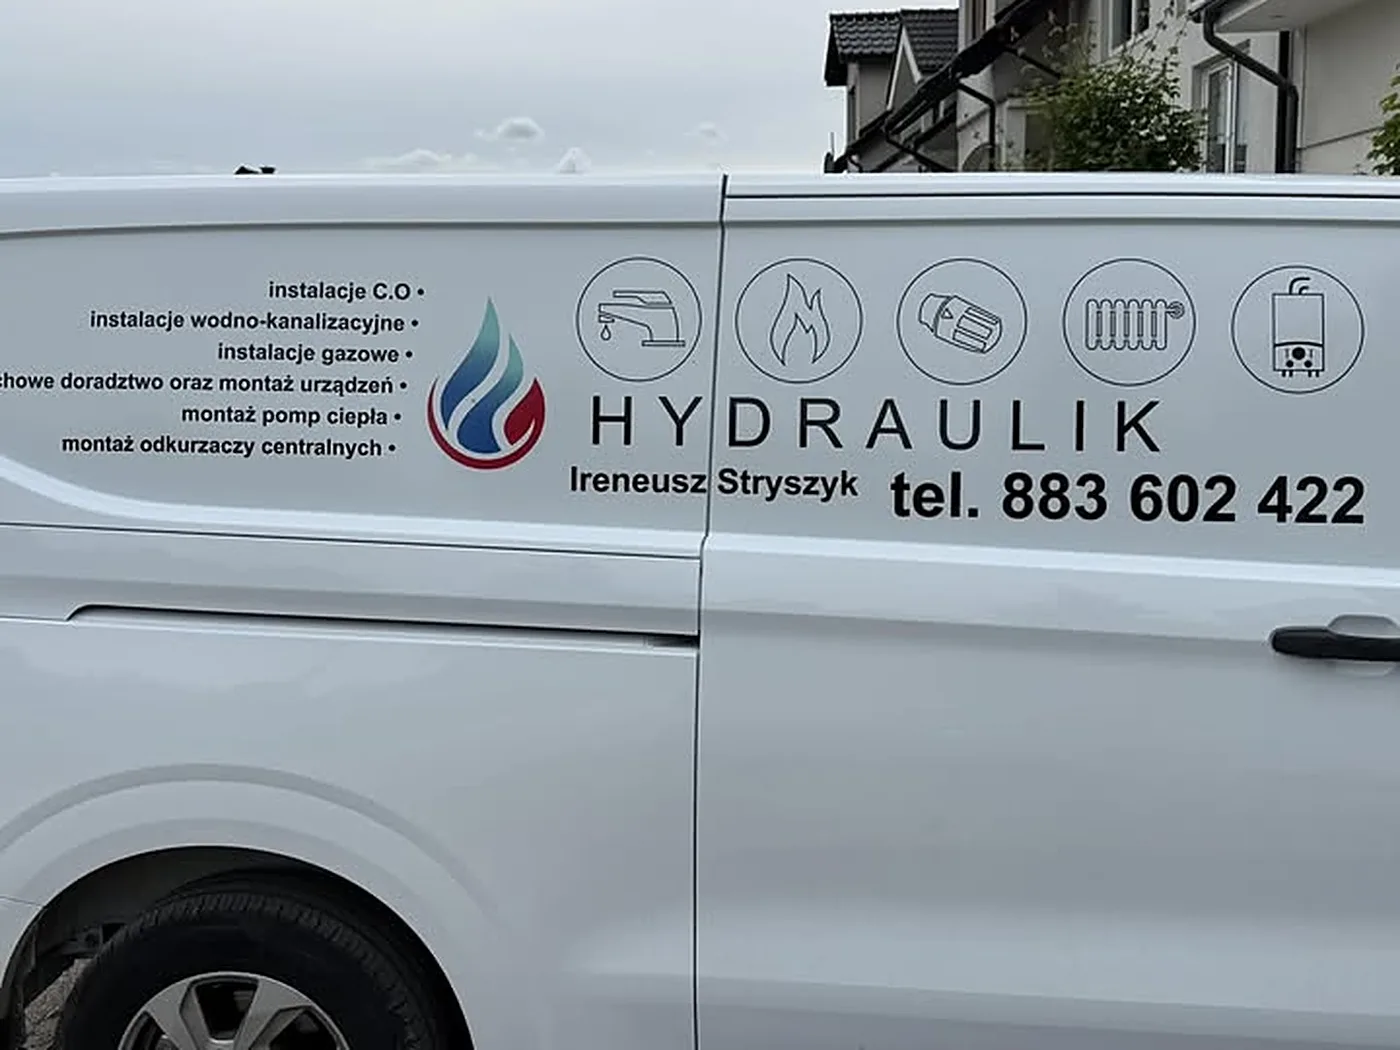
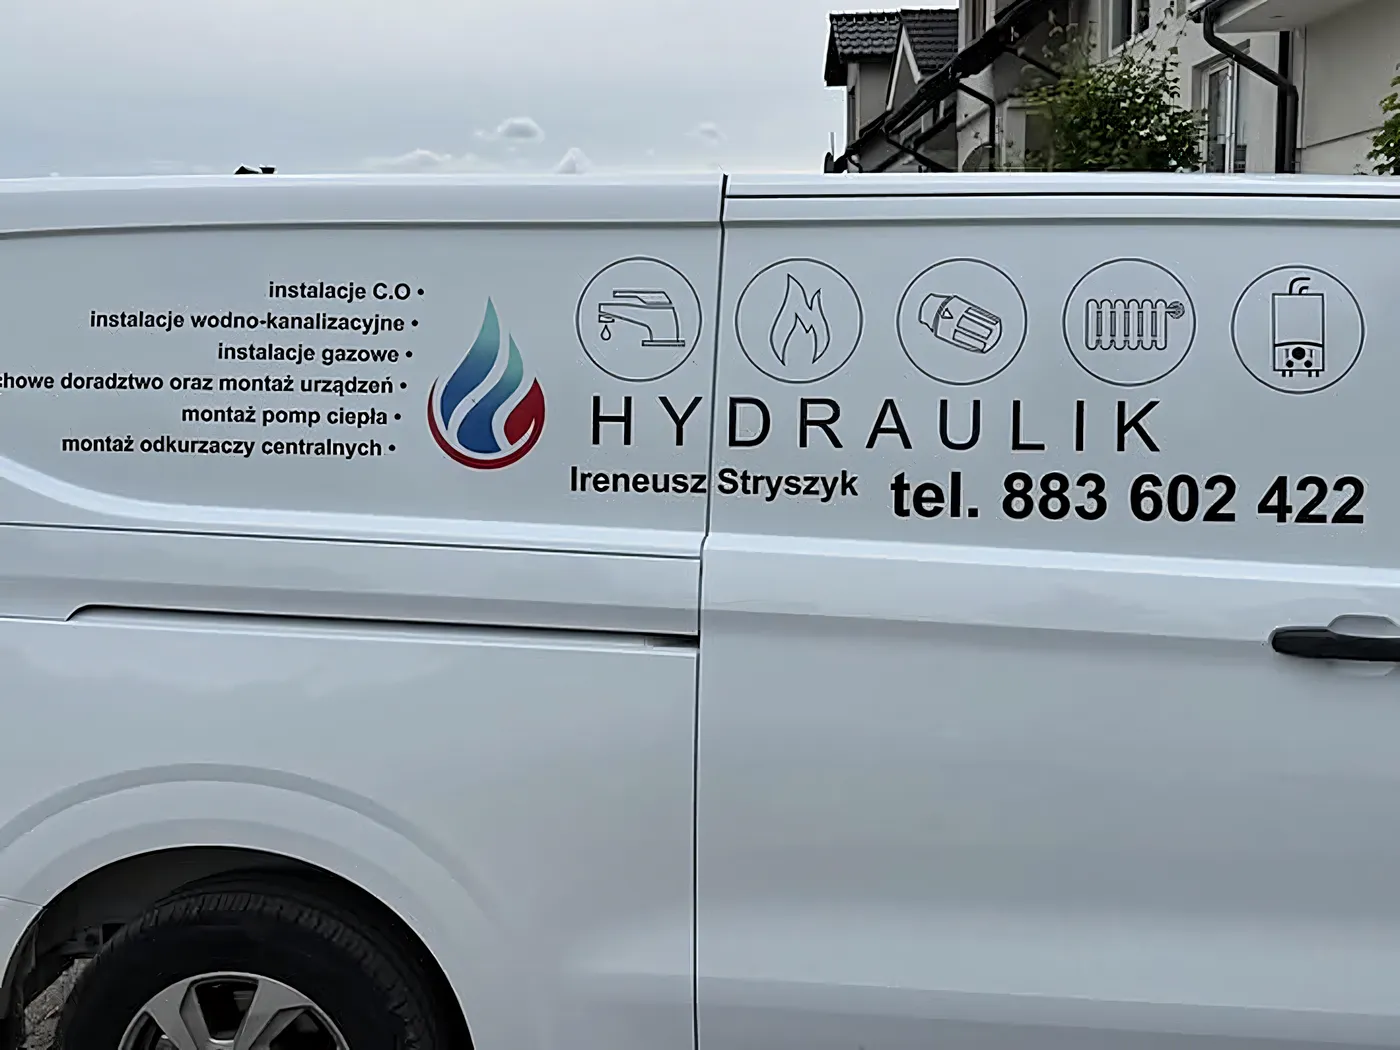
Ostrosc zdjec na ekranach 2x + upscale AI tam, gdzie sie sprawdza
- pas na Partnerze: ostry kadr katalogowy Vaillanta zamiast miekkiego zblizenia
  z kotlowni (sekcja urzadzen ma teraz 4 karty, bo ten kadr z niej wypadl)
- pasy naglowkowe dostaly warianty pod ekrany o gestosci 2x (2048-2400 px zamiast
  1600) - to byla prawdziwa przyczyna miekkosci, nie kadrowanie
- bus na O nas: upscale AI z 1440 do 2880 px. Tu AI wygrywa z wyostrzaniem,
  bo na aucie sa NAPISY - litery wychodza czyste, maska zostawia biale obwodki
- zasada wdrozona i spisana: upscale AI TAK dla napisow/logo/grafiki i zdjec
  produktowych, NIE dla faktury (cegla, tynk, beton) - tam wygladza

diff --git a/partner.html b/partner.html
@@ -23,7 +23,7 @@
   <link rel="manifest" href="site.webmanifest">
   <link rel="preload" href="assets/fonts/bricolage-latin.woff2" as="font" type="font/woff2" crossorigin>
   <link rel="preload" href="assets/fonts/inter-latin.woff2" as="font" type="font/woff2" crossorigin>
-  <link rel="stylesheet" href="assets/app.css?v=9">
+  <link rel="stylesheet" href="assets/app.css?v=10">
   <script type="application/ld+json">
   {
     "@context": "https://schema.org",
@@ -95,7 +95,7 @@
 </section>
 <div class="wrap-wide rv" style="margin-bottom:clamp(20px,4vw,40px)">
   <figure style="margin:0;overflow:hidden;border-radius:4px;aspect-ratio:21/8;background:#dedad3">
-    <img style="width:100%;height:100%;object-fit:cover" src="img/kotlownia-06-900.webp" srcset="img/kotlownia-06-900.webp 900w, img/kotlownia-06-1600.webp 1600w" sizes="100vw" width="675" height="900" alt="Pompa ciepła Vaillant ze stacją Afriso" fetchpriority="high" decoding="async">
+    <img style="width:100%;height:100%;object-fit:cover" src="img/vaillant-03-1600.webp" srcset="img/vaillant-03-1600.webp 1600w, img/vaillant-03-2400.webp 2400w" sizes="100vw" width="2400" height="912" alt="Kocioł kondensacyjny Vaillant" fetchpriority="high" decoding="async">
   </figure>
 </div>
 
@@ -135,11 +135,10 @@
       <p class="lead">Kotły kondensacyjne, pompy ciepła i zasobniki ciepłej wody Vaillant.</p>
     </div>
     <div class="devices rv">
-      <figure data-zoom="img/vaillant-01-1600.webp" data-alt="Urządzenie Vaillant, kotły gazowe Vaillant" data-cap="kotły gazowe Vaillant" tabindex="0"><img src="img/vaillant-01-900.webp" srcset="img/vaillant-01-900.webp 900w, img/vaillant-01-1600.webp 1600w" width="900" height="700" alt="Urządzenie Vaillant, kotły gazowe Vaillant" loading="lazy" decoding="async"></figure>
+      <figure data-zoom="img/vaillant-01-1600.webp" data-alt="Urządzenie Vaillant, kotły stojące z zasobnikiem Vaillant" data-cap="kotły stojące z zasobnikiem Vaillant" tabindex="0"><img src="img/vaillant-01-900.webp" srcset="img/vaillant-01-900.webp 900w, img/vaillant-01-1600.webp 1600w" width="900" height="700" alt="Urządzenie Vaillant, kotły stojące z zasobnikiem Vaillant" loading="lazy" decoding="async"></figure>
       <figure data-zoom="img/vaillant-02-1600.webp" data-alt="Urządzenie Vaillant, pompa ciepła Vaillant" data-cap="pompa ciepła Vaillant" tabindex="0"><img src="img/vaillant-02-900.webp" srcset="img/vaillant-02-900.webp 900w, img/vaillant-02-1600.webp 1600w" width="900" height="700" alt="Urządzenie Vaillant, pompa ciepła Vaillant" loading="lazy" decoding="async"></figure>
-      <figure data-zoom="img/vaillant-03-1600.webp" data-alt="Urządzenie Vaillant, kocioł kondensacyjny Vaillant" data-cap="kocioł kondensacyjny Vaillant" tabindex="0"><img src="img/vaillant-03-900.webp" srcset="img/vaillant-03-900.webp 900w, img/vaillant-03-1600.webp 1600w" width="900" height="700" alt="Urządzenie Vaillant, kocioł kondensacyjny Vaillant" loading="lazy" decoding="async"></figure>
       <figure data-zoom="img/vaillant-04-1600.webp" data-alt="Urządzenie Vaillant, kocioł wiszący Vaillant" data-cap="kocioł wiszący Vaillant" tabindex="0"><img src="img/vaillant-04-900.webp" srcset="img/vaillant-04-900.webp 900w, img/vaillant-04-1600.webp 1600w" width="900" height="700" alt="Urządzenie Vaillant, kocioł wiszący Vaillant" loading="lazy" decoding="async"></figure>
-      <figure data-zoom="img/vaillant-05-1600.webp" data-alt="Urządzenie Vaillant, zasobnik i kocioł Vaillant" data-cap="zasobnik i kocioł Vaillant" tabindex="0"><img src="img/vaillant-05-900.webp" srcset="img/vaillant-05-900.webp 900w, img/vaillant-05-1600.webp 1600w" width="900" height="700" alt="Urządzenie Vaillant, zasobnik i kocioł Vaillant" loading="lazy" decoding="async"></figure>
+      <figure data-zoom="img/vaillant-05-1600.webp" data-alt="Urządzenie Vaillant, kocioł kondensacyjny Vaillant" data-cap="kocioł kondensacyjny Vaillant" tabindex="0"><img src="img/vaillant-05-900.webp" srcset="img/vaillant-05-900.webp 900w, img/vaillant-05-1600.webp 1600w" width="900" height="700" alt="Urządzenie Vaillant, kocioł kondensacyjny Vaillant" loading="lazy" decoding="async"></figure>
     </div>
   </div>
 </section>

diff --git a/kontakt.html b/kontakt.html
@@ -23,7 +23,7 @@
   <link rel="manifest" href="site.webmanifest">
   <link rel="preload" href="assets/fonts/bricolage-latin.woff2" as="font" type="font/woff2" crossorigin>
   <link rel="preload" href="assets/fonts/inter-latin.woff2" as="font" type="font/woff2" crossorigin>
-  <link rel="stylesheet" href="assets/app.css?v=9">
+  <link rel="stylesheet" href="assets/app.css?v=10">
   <script type="application/ld+json">
   {
     "@context": "https://schema.org",
@@ -95,7 +95,7 @@
 </section>
 <div class="wrap-wide rv" style="margin-bottom:clamp(20px,4vw,40px)">
   <figure style="margin:0;overflow:hidden;border-radius:4px;aspect-ratio:21/8;background:#dedad3">
-    <img style="width:100%;height:100%;object-fit:cover" src="img/wod-kan-07-900.webp" srcset="img/wod-kan-07-900.webp 900w, img/wod-kan-07-1600.webp 1600w" sizes="100vw" width="900" height="900" alt="Węzeł wodomierzowy z zaworami odcinającymi" fetchpriority="high" decoding="async">
+    <img style="width:100%;height:100%;object-fit:cover" src="img/wod-kan-07-1600.webp" srcset="img/wod-kan-07-1600.webp 1600w, img/wod-kan-07-2048.webp 2048w" sizes="100vw" width="2048" height="778" alt="Węzeł wodomierzowy z zaworami odcinającymi" fetchpriority="high" decoding="async">
   </figure>
 </div>
 

diff --git a/oferta.html b/oferta.html
@@ -23,7 +23,7 @@
   <link rel="manifest" href="site.webmanifest">
   <link rel="preload" href="assets/fonts/bricolage-latin.woff2" as="font" type="font/woff2" crossorigin>
   <link rel="preload" href="assets/fonts/inter-latin.woff2" as="font" type="font/woff2" crossorigin>
-  <link rel="stylesheet" href="assets/app.css?v=9">
+  <link rel="stylesheet" href="assets/app.css?v=10">
   <script type="application/ld+json">
   {
     "@context": "https://schema.org",
@@ -95,7 +95,7 @@
 </section>
 <div class="wrap-wide rv" style="margin-bottom:clamp(20px,4vw,40px)">
   <figure style="margin:0;overflow:hidden;border-radius:4px;aspect-ratio:21/8;background:#dedad3">
-    <img style="width:100%;height:100%;object-fit:cover" src="img/wod-kan-05-900.webp" srcset="img/wod-kan-05-900.webp 900w, img/wod-kan-05-1600.webp 1600w" sizes="100vw" width="900" height="900" alt="Rury poprowadzone w bruzdach ściany" fetchpriority="high" decoding="async">
+    <img style="width:100%;height:100%;object-fit:cover" src="img/wod-kan-05-1600.webp" srcset="img/wod-kan-05-1600.webp 1600w, img/wod-kan-05-2048.webp 2048w" sizes="100vw" width="2048" height="778" alt="Rury poprowadzone w bruzdach ściany" fetchpriority="high" decoding="async">
   </figure>
 </div>
 

diff --git a/o-nas.html b/o-nas.html
@@ -23,7 +23,7 @@
   <link rel="manifest" href="site.webmanifest">
   <link rel="preload" href="assets/fonts/bricolage-latin.woff2" as="font" type="font/woff2" crossorigin>
   <link rel="preload" href="assets/fonts/inter-latin.woff2" as="font" type="font/woff2" crossorigin>
-  <link rel="stylesheet" href="assets/app.css?v=9">
+  <link rel="stylesheet" href="assets/app.css?v=10">
   <script type="application/ld+json">
   {
     "@context": "https://schema.org",
@@ -95,7 +95,7 @@
 </section>
 <div class="wrap-wide rv" style="margin-bottom:clamp(20px,4vw,40px)">
   <figure style="margin:0;overflow:hidden;border-radius:4px;aspect-ratio:21/8;background:#dedad3">
-    <img style="width:100%;height:100%;object-fit:cover" src="img/bus-900.webp" srcset="img/bus-900.webp 900w, img/bus-1400.webp 1400w" sizes="100vw" width="900" height="675" alt="Samochód firmowy z logo i numerem telefonu" fetchpriority="high" decoding="async">
+    <img style="width:100%;height:100%;object-fit:cover" src="img/bus-1400.webp" srcset="img/bus-1400.webp 1400w, img/bus-2400.webp 2400w" sizes="100vw" width="2400" height="912" alt="Samochód firmowy z logo i numerem telefonu" fetchpriority="high" decoding="async">
   </figure>
 </div>
 

diff --git a/assets/app.css b/assets/app.css
@@ -258,11 +258,11 @@ h3{font-size:clamp(19px,2vw,23px);letter-spacing:-.02em}
 
 /* ——— urządzenia producenta: małe karty katalogowe, żeby zielone tła
    z materiałów Vaillanta nie zalewały sekcji wielką płaszczyzną koloru ——— */
-.devices{display:grid;grid-template-columns:repeat(5,1fr);gap:12px;margin-top:40px}
+.devices{display:grid;grid-template-columns:repeat(4,1fr);gap:14px;margin-top:40px}
 .devices figure{margin:0;overflow:hidden;border-radius:var(--r);border:1px solid var(--line);background:#fff;aspect-ratio:4/5}
 .devices img{width:100%;height:100%;object-fit:cover;transition:transform .55s cubic-bezier(.2,.7,.3,1),filter .45s}
 .devices figure:hover img{transform:scale(1.02);filter:brightness(1.05)}
-@media (max-width:900px){.devices{grid-template-columns:repeat(3,1fr)}}
+@media (max-width:900px){.devices{grid-template-columns:repeat(2,1fr)}}
 @media (max-width:560px){.devices{grid-template-columns:repeat(2,1fr)}}
 
 /* ——— galeria ——— */

diff --git a/index.html b/index.html
@@ -23,7 +23,7 @@
   <link rel="manifest" href="site.webmanifest">
   <link rel="preload" href="assets/fonts/bricolage-latin.woff2" as="font" type="font/woff2" crossorigin>
   <link rel="preload" href="assets/fonts/inter-latin.woff2" as="font" type="font/woff2" crossorigin>
-  <link rel="stylesheet" href="assets/app.css?v=9">
+  <link rel="stylesheet" href="assets/app.css?v=10">
   <script type="application/ld+json">
   {
     "@context": "https://schema.org",

diff --git a/realizacje.html b/realizacje.html
@@ -23,7 +23,7 @@
   <link rel="manifest" href="site.webmanifest">
   <link rel="preload" href="assets/fonts/bricolage-latin.woff2" as="font" type="font/woff2" crossorigin>
   <link rel="preload" href="assets/fonts/inter-latin.woff2" as="font" type="font/woff2" crossorigin>
-  <link rel="stylesheet" href="assets/app.css?v=9">
+  <link rel="stylesheet" href="assets/app.css?v=10">
   <script type="application/ld+json">
   {
     "@context": "https://schema.org",

diff --git a/404.html b/404.html
@@ -24,7 +24,7 @@
   <link rel="manifest" href="site.webmanifest">
   <link rel="preload" href="assets/fonts/bricolage-latin.woff2" as="font" type="font/woff2" crossorigin>
   <link rel="preload" href="assets/fonts/inter-latin.woff2" as="font" type="font/woff2" crossorigin>
-  <link rel="stylesheet" href="assets/app.css?v=9">
+  <link rel="stylesheet" href="assets/app.css?v=10">
 </head>
 <body>
 <a class="skip" href="#main">Przejdź do treści</a>

diff --git a/dziekujemy.html b/dziekujemy.html
@@ -24,7 +24,7 @@
   <link rel="manifest" href="site.webmanifest">
   <link rel="preload" href="assets/fonts/bricolage-latin.woff2" as="font" type="font/woff2" crossorigin>
   <link rel="preload" href="assets/fonts/inter-latin.woff2" as="font" type="font/woff2" crossorigin>
-  <link rel="stylesheet" href="assets/app.css?v=9">
+  <link rel="stylesheet" href="assets/app.css?v=10">
 </head>
 <body>
 <a class="skip" href="#main">Przejdź do treści</a>

diff --git a/polityka-prywatnosci.html b/polityka-prywatnosci.html
@@ -23,7 +23,7 @@
   <link rel="manifest" href="site.webmanifest">
   <link rel="preload" href="assets/fonts/bricolage-latin.woff2" as="font" type="font/woff2" crossorigin>
   <link rel="preload" href="assets/fonts/inter-latin.woff2" as="font" type="font/woff2" crossorigin>
-  <link rel="stylesheet" href="assets/app.css?v=9">
+  <link rel="stylesheet" href="assets/app.css?v=10">
 </head>
 <body>
 <a class="skip" href="#main">Przejdź do treści</a>

diff --git a/pages.py b/pages.py
@@ -1,6 +1,6 @@
 #!/usr/bin/env python3
 """Treść poszczególnych stron serwisu."""
-from photos import img, img_special, zoom_fig, gallery_groups, opis
+from photos import img, img_special, img_pas, zoom_fig, gallery_groups, opis
 
 TEL = "+48 883 602 422"
 TEL_E164 = "+48883602422"
@@ -143,8 +143,7 @@ def strona_head(kicker, h1, lead, base):
     """Nagłówek podstrony, opcjonalnie z pasem zdjęciowym pod spodem."""
     pas = ""
     if base:
-        tag = img_special(base, lazy=False, sizes="100vw") if base in ("bus",) \
-            else img(base, lazy=False, sizes="100vw")
+        tag = img_pas(base)
         tag = tag.replace('<img', '<img style="width:100%;height:100%;object-fit:cover"', 1)
         pas = f"""<div class="wrap-wide rv" style="margin-bottom:clamp(20px,4vw,40px)">
   <figure style="margin:0;overflow:hidden;border-radius:4px;aspect-ratio:21/8;background:#dedad3">
@@ -501,8 +500,8 @@ def realizacje_body():
 
 def partner_body():
     URZADZENIA = [
-        (1, "kotły gazowe Vaillant"), (2, "pompa ciepła Vaillant"), (3, "kocioł kondensacyjny Vaillant"),
-        (4, "kocioł wiszący Vaillant"), (5, "zasobnik i kocioł Vaillant"),
+        (1, "kotły stojące z zasobnikiem Vaillant"), (2, "pompa ciepła Vaillant"),
+        (4, "kocioł wiszący Vaillant"), (5, "kocioł kondensacyjny Vaillant"),
     ]
     urzadzenia = "\n".join(
         f'      <figure data-zoom="img/vaillant-{i:02d}-1600.webp" data-alt="Urządzenie Vaillant, {t}" '
@@ -530,7 +529,7 @@ def partner_body():
 
     return f"""{strona_head("Partner", "Autoryzowany montaż i serwis Vaillant",
                             "Pracujemy na urządzeniach Vaillant i mamy autoryzację producenta na ich montaż oraz serwis. "
-                            "Dzięki temu sprzęt, gwarancja i przeglądy zostają w jednych rękach.", "kotlownia-06")}
+                            "Dzięki temu sprzęt, gwarancja i przeglądy zostają w jednych rękach.", "vaillant-03")}
 
 <section class="sec" style="padding-top:0">
   <div class="wrap">

diff --git a/photos.py b/photos.py
@@ -104,6 +104,27 @@ def img(base, w=900, cls="", lazy=True, sizes=None):
             f' width="{ww}" height="{hh}" alt="{opis(base)}"{load}>')
 
 
+def img_pas(base):
+    """Zdjęcie do szerokiego pasa nagłówkowego. Pas ma ~1350 punktów szerokości,
+    a na ekranie o gęstości 2x to 2700 pikseli — dlatego podajemy wariant
+    w maksymalnej dostępnej rozdzielczości, inaczej kadr wygląda miękko."""
+    duzy = {
+        "bus": ("img/bus-2400.webp", 2400, "img/bus-1400.webp", 1400,
+                "Samochód firmowy z logo i numerem telefonu"),
+        "wod-kan-05": ("img/wod-kan-05-2048.webp", 2048, "img/wod-kan-05-1600.webp", 1600, None),
+        "wod-kan-07": ("img/wod-kan-07-2048.webp", 2048, "img/wod-kan-07-1600.webp", 1600, None),
+        "rozdzielacz-03": ("img/rozdzielacz-03-2048.webp", 2048, "img/rozdzielacz-03-1600.webp", 1600, None),
+        "vaillant-03": ("img/vaillant-03-2400.webp", 2400, "img/vaillant-03-1600.webp", 1600,
+                        "Kocioł kondensacyjny Vaillant"),
+    }
+    if base not in duzy:
+        return img(base, lazy=False, sizes="100vw")
+    src2, w2, src1, w1, alt = duzy[base]
+    tekst = alt or opis(base)
+    return (f'<img src="{src1}" srcset="{src1} {w1}w, {src2} {w2}w" sizes="100vw" '
+            f'width="{w2}" height="{int(w2 * 0.38)}" alt="{tekst}" fetchpriority="high" decoding="async">')
+
+
 def zoom_fig(base, cls=""):
     """Kafel galerii otwierany w powiększeniu."""
     ww, hh = dims(base)
